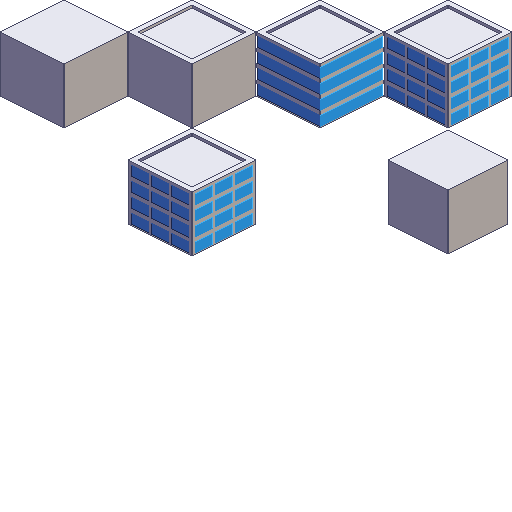
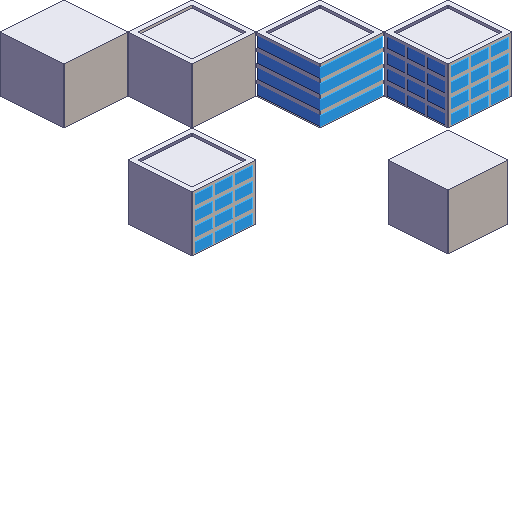
Test level

Changed region(s): [[0.25, 0.3125, 0.375, 0.5]]

diff --git a/src/game/main.ts b/src/game/main.ts
@@ -325,13 +325,26 @@ const createRange = (n: number) => new Array(n).fill(0).map((_, i) => i);
     let robot: Actor;
     let worldRenderer: Actor;
     const world = new World(new Vec2(5, 5));
-    world.addBox(new Vec3(1, 4, 0), new Vec3(2, 1, 3), {
-        isClimbable: false,
-        spriteIndex: 2,
+    // climbable start
+    world.addBox(new Vec3(1, 1, 0), new Vec3(2, 2, 1), {
+        isClimbable: true,
+        spriteIndex: 1,
     });
-    world.addBox(new Vec3(4, 1, 0), new Vec3(1, 4, 3), {
+
+    // first building to jump to
+    world.addBox(new Vec3(1, 4, 0), new Vec3(2, 1, 1), {
         isClimbable: false,
         spriteIndex: 3,
+    });
+    world.addBox(new Vec3(2, 4, 1), new Vec3(1, 1, 1), {
+        isClimbable: true,
+        spriteIndex: 5,
+    });
+
+    // final tower
+    world.addBox(new Vec3(4, 4, 0), new Vec3(1, 1, 2), {
+        isClimbable: false,
+        spriteIndex: 2,
     });
 
     new Engine(ctx, {
